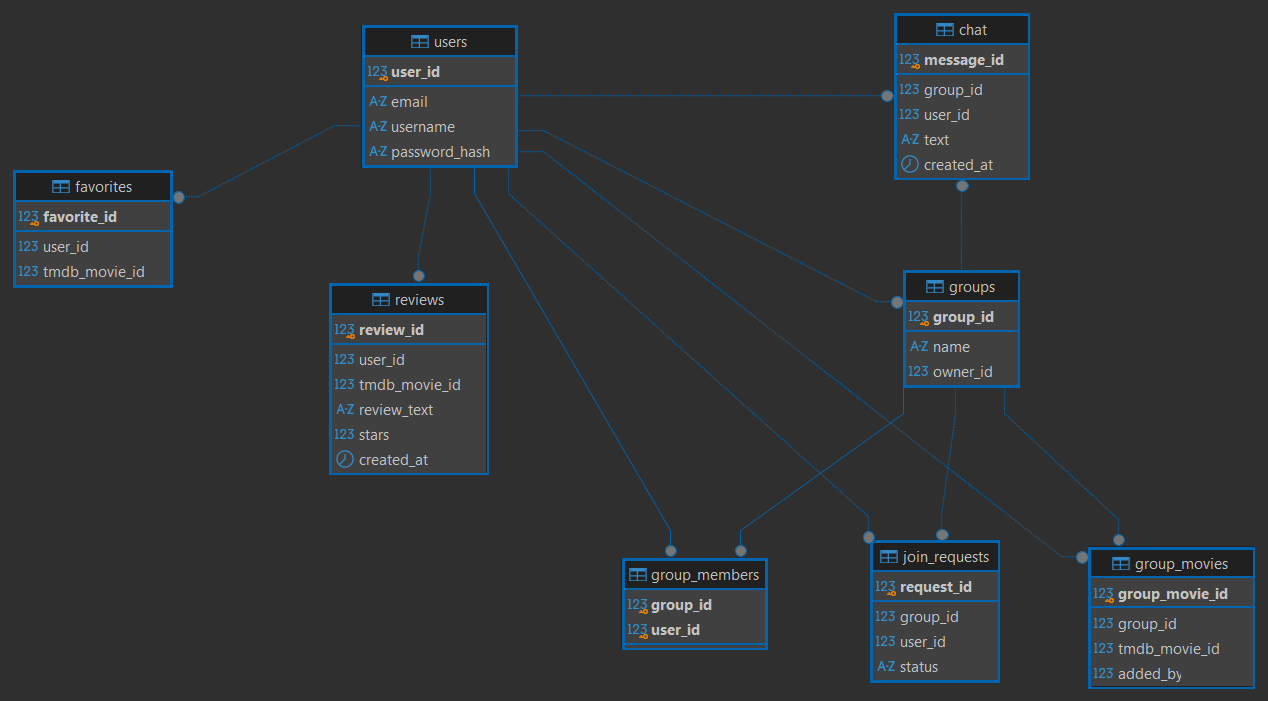
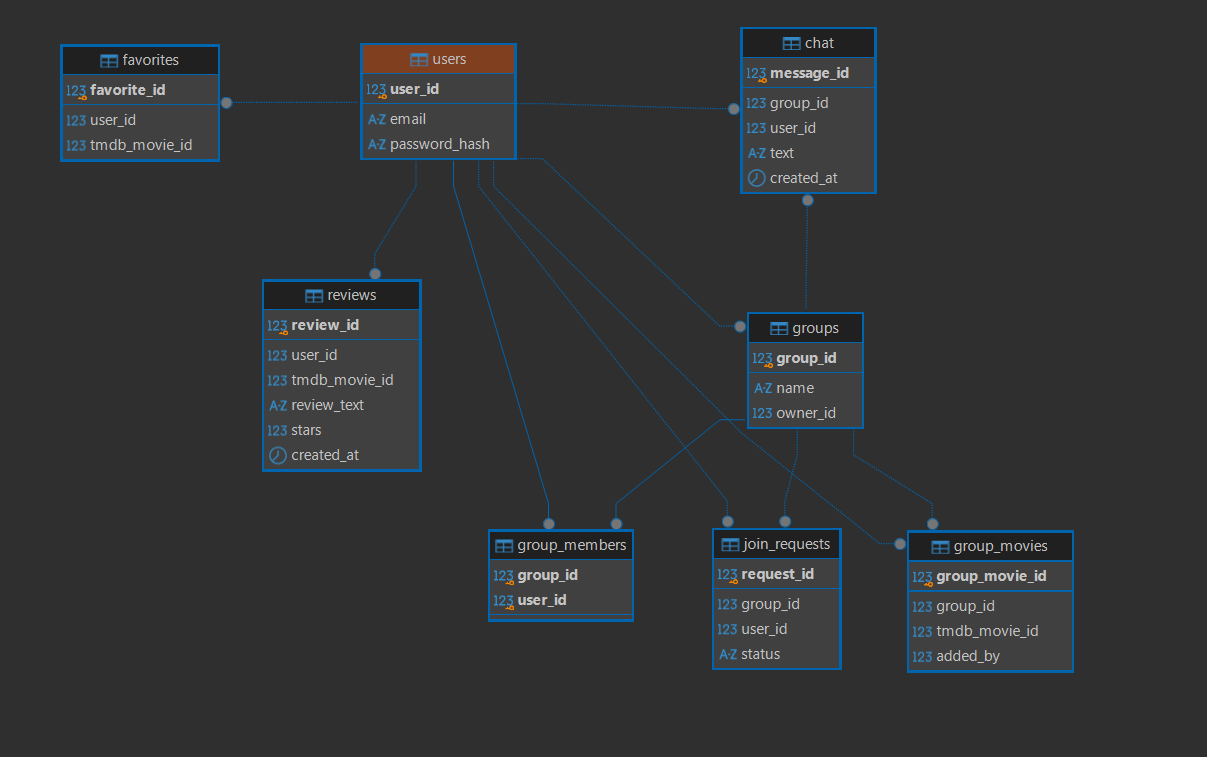
Add groups page and update database schema (#124)
* Add groups page and update database schema

* name of db picture changed

---------

diff --git a/frontend/src/pages/Groups.jsx b/frontend/src/pages/Groups.jsx
@@ -1,0 +1,49 @@
+import { useAuth } from "../contexts/AuthContext.jsx";
+import Header from "../components/Header.jsx";
+import { Link } from "react-router-dom";
+
+export default function Groups () {
+const { user} = useAuth(); 
+
+//if user is not logged in->this message
+  if (!user) {
+    return (
+      <>
+        <Header />
+        <div className="groups-page">
+          <p>
+            You need to <Link to="/login">log in</Link> to see your groups page.
+          </p>
+        </div>
+      </>
+    );
+  }
+  
+
+//working page:
+  return (
+  <>
+    <Header />
+
+    <div className="Groups-page">
+      <div className="groups-header">
+        <h1>MY GROUPS:</h1>
+
+        <button className="create-group-button">
+          CREATE NEW GROUP
+        </button>
+      </div>
+
+      <div className="my-groups">
+
+      </div>
+
+      <h2>ALL GROUPS:</h2>
+
+      <div className="all-groups">
+
+      </div>
+    </div>
+  </>
+);
+}

diff --git a/frontend/src/App.jsx b/frontend/src/App.jsx
@@ -6,6 +6,7 @@ import Login from "./pages/Login";
 import Signup from "./pages/Signup";
 import MyAccount from "./pages/MyAccount";
 import MyFavourites from "./pages/MyFavourites";
+import Groups from "./pages/Groups";
 import SharedFavourites from "./pages/SharedFavourites";
 import "./App.css";
 
@@ -20,6 +21,7 @@ function App() {
         <Route path="/signup" element={<Signup />} />
         <Route path="/account" element={<MyAccount />} />
         <Route path="/favourites" element={<MyFavourites />} />
+        <Route path="/groups" element={<Groups />} />
         <Route path="/shared-favourites/:shareToken" element={<SharedFavourites />} />
       </Routes>
     </BrowserRouter>

diff --git a/frontend/src/App.css b/frontend/src/App.css
@@ -520,3 +520,38 @@
 .login-prompt a:hover {
   text-decoration: underline;
 }
+
+/* GROUPS PAGE */
+
+.Groups-page {
+  padding: 40px 60px;
+}
+
+.groups-header {
+  display: flex;
+  justify-content: space-between;
+  align-items: center;
+}
+
+.Groups-page h1,
+.Groups-page h2 {
+  color: #6c4ccf;
+}
+
+.create-group-button {
+  padding: 12px 24px;
+  border: none;
+  border-radius: 20px;
+  background-color: #6c4ccf;
+  color: white;
+  font-weight: bold;
+  cursor: pointer;
+}
+
+.my-groups {
+  min-height: 180px;
+}
+
+.all-groups {
+  min-height: 180px;
+}

diff --git a/frontend/src/components/Header.jsx b/frontend/src/components/Header.jsx
@@ -20,9 +20,9 @@ export default function Header() {
         <Link to="/search" className="header-icon">
           <img src={searchIcon} alt="Search" />
         </Link>
-        <span className="header-icon">
+        <Link to="/groups" className="header-icon">
           <img src={groupIcon} alt="Group" />
-        </span>
+        </Link>
         <Link to={user ? "/favourites" : "/login"} className="header-icon">
           <img src={favouritesIcon} alt="Favourites" />
         </Link>
